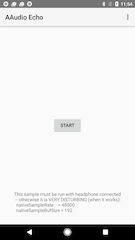
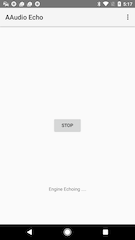
Minor change to the prompt message on UI

diff --git a/aaudio/echo/src/main/java/com/google/sample/aaudio/echo/MainActivity.java b/aaudio/echo/src/main/java/com/google/sample/aaudio/echo/MainActivity.java
@@ -156,8 +156,10 @@ public class MainActivity extends Activity
             return;
         }
 
-        status_view.setText("This sample must be run with headphone connected\n" +
-                            " -- otherwise it is VERY DISTURBING (when it works):\n" +
+        status_view.setText("Warning:\n" +
+                            "    This sample must be run with headphone connected\n" +
+                            "     -- otherwise the sound could be pretty DISTURBING.\n" +
+                            "Info:\n" +
                             "  nativeSampleRate    = " + nativeSampleRate + "\n" +
                             "  nativeSampleBufSize = " + nativeSampleBufSize + "\n");
 
